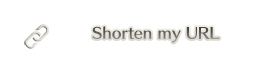
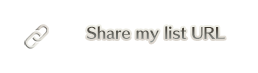
Minor URL shortening enhancement bits

Changed region(s): [[0.3101, 0.3562, 0.8992, 0.6027]]

diff --git a/js/index.js b/js/index.js
@@ -66,7 +66,7 @@ var member_uncheck_conf = "Are you sure you want to uncheck this Servant?";
 var member_clear_conf = "Are you sure you want to clear all checked Servants?";
 
 // Share strings
-var share_text = "This is your current shortened URL:";
+var share_text = "This is your shortened URL for easy sharing:";
 var share_none_text = "There is nothing to share.";
 
 // "Select All" Text
